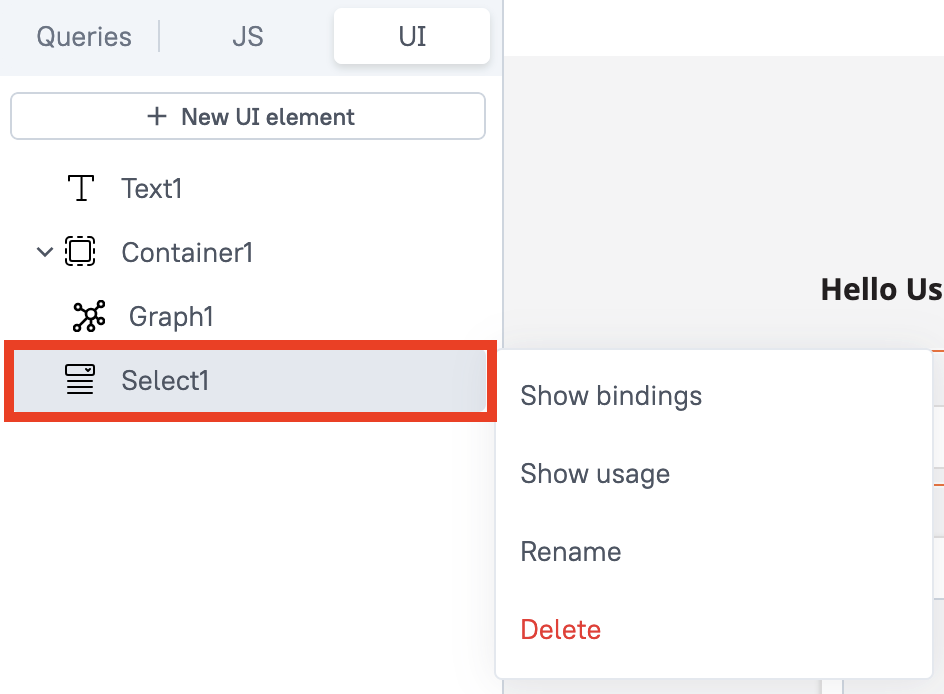
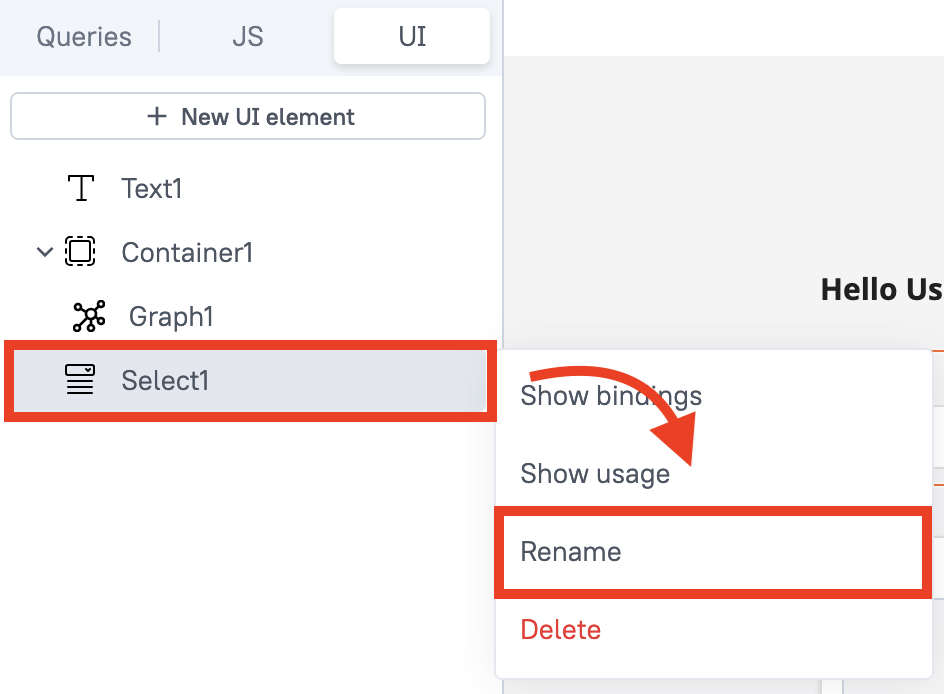
.

Changed region(s): [[0.5222, 0.7262, 1.0, 0.8775], [0.553, 0.5144, 0.7373, 0.6657]]

diff --git a/docs/module-3/creating-data-visualizations.md b/docs/module-3/creating-data-visualizations.md
@@ -69,8 +69,8 @@ Then change the following settings in the properties window on the right-hand si
 You may also change the **Default selected value** and the label text.
 
 <figure markdown="span">
-	![Renaming the Select widget](src/rename-select-widget.png){ .img-medium }
-	<figcaption>Renaming the Select widget</figcaption>
+	![Select widget properties](src/select-widget-properties.png){ .img-medium }
+	<figcaption>Select widget properties</figcaption>
 </figure>
 
 ## Create the feature variant query
@@ -133,26 +133,153 @@ In the variable window, insert these variables that are provided to the query as
 
 Name the query `get_feature_variant` at the top.
 
-<figure markdown="span">
-	![Widgets for the data visualization application](src/widgets-data-viz-application.png){ .img-medium }
-	<figcaption>Widgets for the data visualization application</figcaption>
-</figure>
-
-
-
 
 ## Parse the query output
+ 
+The response returned by the GraphQL query needs to be parsed before it can be used by the Graph widget. This JavaScript code parses the data and returns the nodes and edges that the Graph wuidget uses to visualize the data.
+
+Copy the code below, select the **JS** tab in the **Editor** view and paste it into the window.
+
+??? "JavaScript code to parse query response"
+
+     ```js 
+     export default {
+	colorConf: [  {    "concept": "ComponentVariant",    "color": "#80ccff"  },  {    "concept": "ConnectorVariant",    "color": "#485162"  },  {    "concept": "FeatureSet",    "color": "#485162"  },  {    "concept": "HardwareVariant",    "color": "#485162"  },  {    "concept": "InternalCircuit",    "color": "#485162"  },  {    "concept": "LogicalConnection",    "color": "#485162"  },  {    "concept": "PhysicalConnection",    "color": "#485162"  },  {    "concept": "PinVariant",    "color": "#485162"  },  {    "concept": "Release",    "color": "#485162"  },  {    "concept": "SoftwareContainer",    "color": "#485162"  },  {    "concept": "SoftwareModule",    "color": "#0099ff"  },  {    "concept": "VehicleBus",    "color": "#485162"  },  {    "concept": "Vehicle",    "color": "#485162"  },  {    "concept": "Module",    "color": "#485162"  },  {    "concept": "Component",    "color": "#485162"  },  {    "concept": "ComponentType",    "color": "#485162"  },  {    "concept": "Connector",    "color": "#485162"  },  {    "concept": "Pin",    "color": "#485162"  },  {    "concept": "DataPoint",    "color": "#485162"  },  {    "concept": "OutputDriver",    "color": "#485162"  },  {    "concept": "SupplyVoltage",    "color": "#485162"  },  {    "concept": "PinInput",    "color": "#485162"  },  {    "concept": "Sensor",    "color": "#485162"  },  {    "concept": "OutputErrorDetection",    "color": "#485162"  },  {    "concept": "CurrentLoad",    "color": "#485162"  },  {    "concept": "SignalType",    "color": "#485162"  },  {    "concept": "ContactType",    "color": "#485162"  },  {    "concept": "ContactSurface",    "color": "#485162"  },  {    "concept": "InternalCircuitType",    "color": "#485162"  },  {    "concept": "Color",    "color": "#485162"  },  {    "concept": "Cable",    "color": "#485162"  },  {    "concept": "Wire",    "color": "#485162"  },  {    "concept": "Change",    "color": "#485162"  },  {    "concept": "VehicleVariant",    "color": "#485162"  },  {    "concept": "EquipmentPackage",    "color": "#485162"  },  {    "concept": "SaCode",    "color": "#485162"  },  {    "concept": "DiagnosisInformation",    "color": "#485162"  },  {    "concept": "BusSignal",    "color": "#858282"  },  {    "concept": "FeatureTargetArea",    "color": "#485162"  },  {    "concept": "Feature",    "color": "#485162"  },  {    "concept": "FeatureVariant",    "color": "red"  },  {    "concept": "SoftwareConfiguration",    "color": "#485162"  },  {    "concept": "Part",    "color": "#485162"  },  {    "concept": "Employee",    "color": "#485162"  },  {    "concept": "CompanyDepartment",    "color": "#485162"  },  {    "concept": "Company",    "color": "#485162"  },  {    "concept": "Harness",    "color": "#485162"  },  {    "concept": "Model",    "color": "#485162"  },  {    "concept": "System",    "color": "#485162"  }],
+	getAllNodes(obj) {
+               const ids = [];
+
+               function traverse(obj) {
+                    if (obj.hasOwnProperty("id")) {
+                         let shortName = obj.id;
+                         if (obj.hasOwnProperty("name")) {
+                              shortName = obj.name;
+                         } else if (obj.hasOwnProperty("shortName")) {
+                              shortName = obj.shortName;
+                         }
+                         let id_concept = obj.id.split("/")
+                         let node = {id: obj.id, 
+                                                       label: shortName}
+                         if (id_concept.length > 1) {
+                              node["color"] = Graph.colorConf.find(e => id_concept[0].startsWith(e.concept)).color
+                         }
+                         if (obj.hasOwnProperty("description")) {
+                              node["description"] = obj.description
+                         }
+                         if (obj.hasOwnProperty("transportedBy")) {
+                              node["transportedBy"] = obj.transportedBy
+                         }
+
+                         ids.push(node);
+                    }
+
+                    for (const key in obj) {
+                         if (typeof obj[key] === "object" && obj[key] !== null) {
+                              traverse(obj[key]);
+                         }
+                    }
+               }
+
+               traverse(obj);
+               return Array.from(new Set(ids.map(obj => obj.id))).map(id => {
+                    return ids.find(obj => obj.id === id);
+               });
+          },
+          getAllEdges(obj) {
+               const edges = [];
+               let edgeId = 1;
+
+               function traverse(obj, parent) {
+                    if (obj.hasOwnProperty("id")) {
+                         if (parent) {
+                              edges.push({ id: edgeId++, from: parent.id, to: obj.id });
+                         }
+                         parent = obj;
+                    }
+
+                    for (const key in obj) {
+                         if (typeof obj[key] === "object" && obj[key] !== null) {
+                              traverse(obj[key], parent);
+                         }
+                    }
+               }
+
+               traverse(obj);
+               return edges;
+          },
+          prepareConfigs(data) {
+               let returnVariant = {}
+               console.log(data)
+               returnVariant ['id'] = data ['id']
+               returnVariant ['name'] = data ['name']
+               returnVariant ['description'] = data ['description']
+               returnVariant ['originalId'] = data ['originalId']
+               returnVariant ['realizedIn'] = data.realizedIn.reduce( function (acc, cur) {
+                    if (!cur.componentVariant) {
+                         cur.softwareModule ["includedIn"] = cur.softwareContainer
+                         acc.push(cur.softwareModule)
+                    } else if (!cur.softwareContainer) {
+                         cur.softwareModule ["runsOn"] = cur.componentVariant
+                         acc.push(cur.softwareModule)
+                    }
+
+                    return acc;
+               }, []);
+
+               let returnCompontents = data.realizedIn.reduce( function (acc, cur) {
+                    if (cur.componentVariant && cur.softwareContainer) {
+                         cur.softwareContainer ["runsOn"] = cur.componentVariant
+                         acc.push(cur.softwareContainer)
+                    }
+                    return acc;
+               }, []);
+
+               return [returnVariant,returnCompontents]
+          },
+          singleEdges(data){
+               let returnData = {}
+
+               returnData ['id'] = data ['id']
+               returnData ['name'] = data ['name']
+               var list_of_modules = []
+               returnData ['realizedIn'] = data.realizedIn.reduce( function (acc, cur) {
+
+                    if (cur.softwareModule) {
+                         if (-1 === list_of_modules.indexOf(cur.softwareModule.id)) {
+                              list_of_modules.push(cur.softwareModule.id)
+                              acc.push (cur.softwareModule)
+                         }
+
+                    }
 
 
+                    return acc;
+               }, []);
 
+               return returnData
+          }
+     }
+     ```
 
+Name the JavaScript code `Graph` at the top.
 
+### Apply bindings to the Graph widget
 
+The parsed output should be bound to the Graph widget by using these values in the properties window on the right-hand side:
 
+- **Edges:** `{{ "{{Graph.getAllEdges(Graph.prepareConfigs(get_feature_variant.data.data.entity))}}" }}`
+- **Nodes:** `{{ "{{Graph.getAllNodes(Graph.prepareConfigs(get_feature_variant.data.data.entity))}}" }}`
 
+<figure markdown="span">
+	![Binding nodes and edges in the Graph widget](src/nodes-edges-graph-widget.png){ .img-medium }
+	<figcaption>Binding nodes and edges in the Graph widget</figcaption>
+</figure>
 
+In the style configuration tab, use the following settings:
 
-
-### Edit widget settings and bindings
+- **Node figure:** Rounded rectangle
+- **Mode:** Hierarchical
+- **Direction:** Down
 
 ## Publish the application
+
+{{ snippets.publishApp }}

diff --git a/docs/module-1/creating-a-studio-application.md b/docs/module-1/creating-a-studio-application.md
@@ -54,6 +54,6 @@ For more on styling your application, see [How to style your application](#).
 
 {{ snippets.publishApp }}
 
-!!! abstract "Task 3: Publish your application"
+!!! abstract "Task 3: View your application"
 
      Publish the application that you have created and then go to the SPREAD Launcher to open it.
